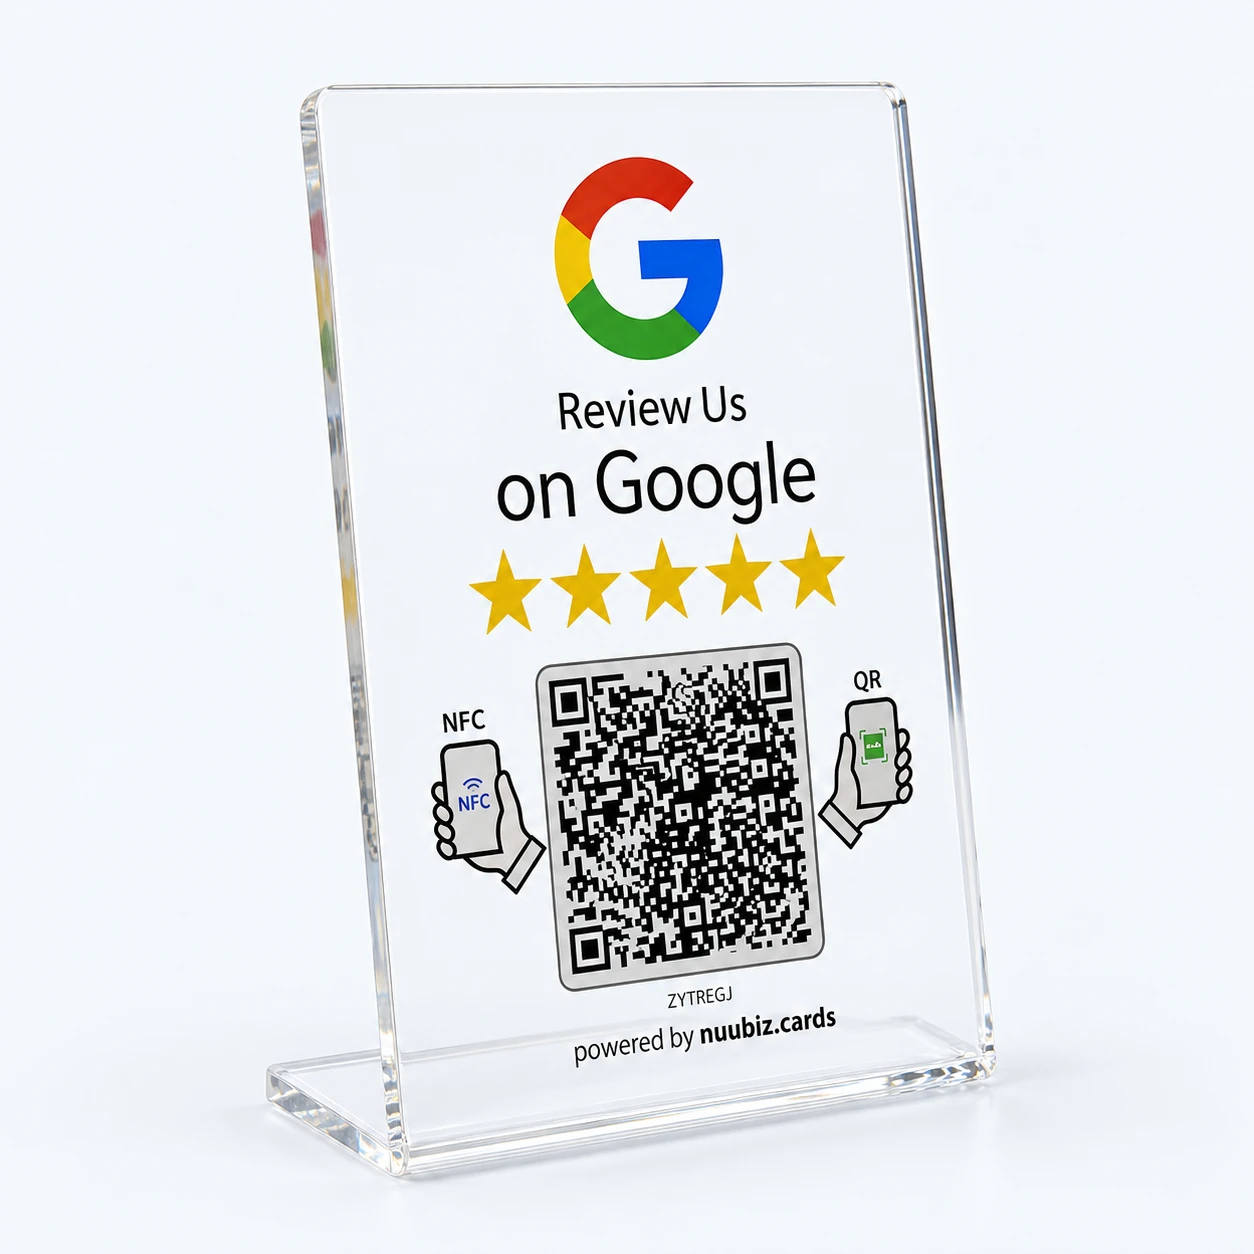
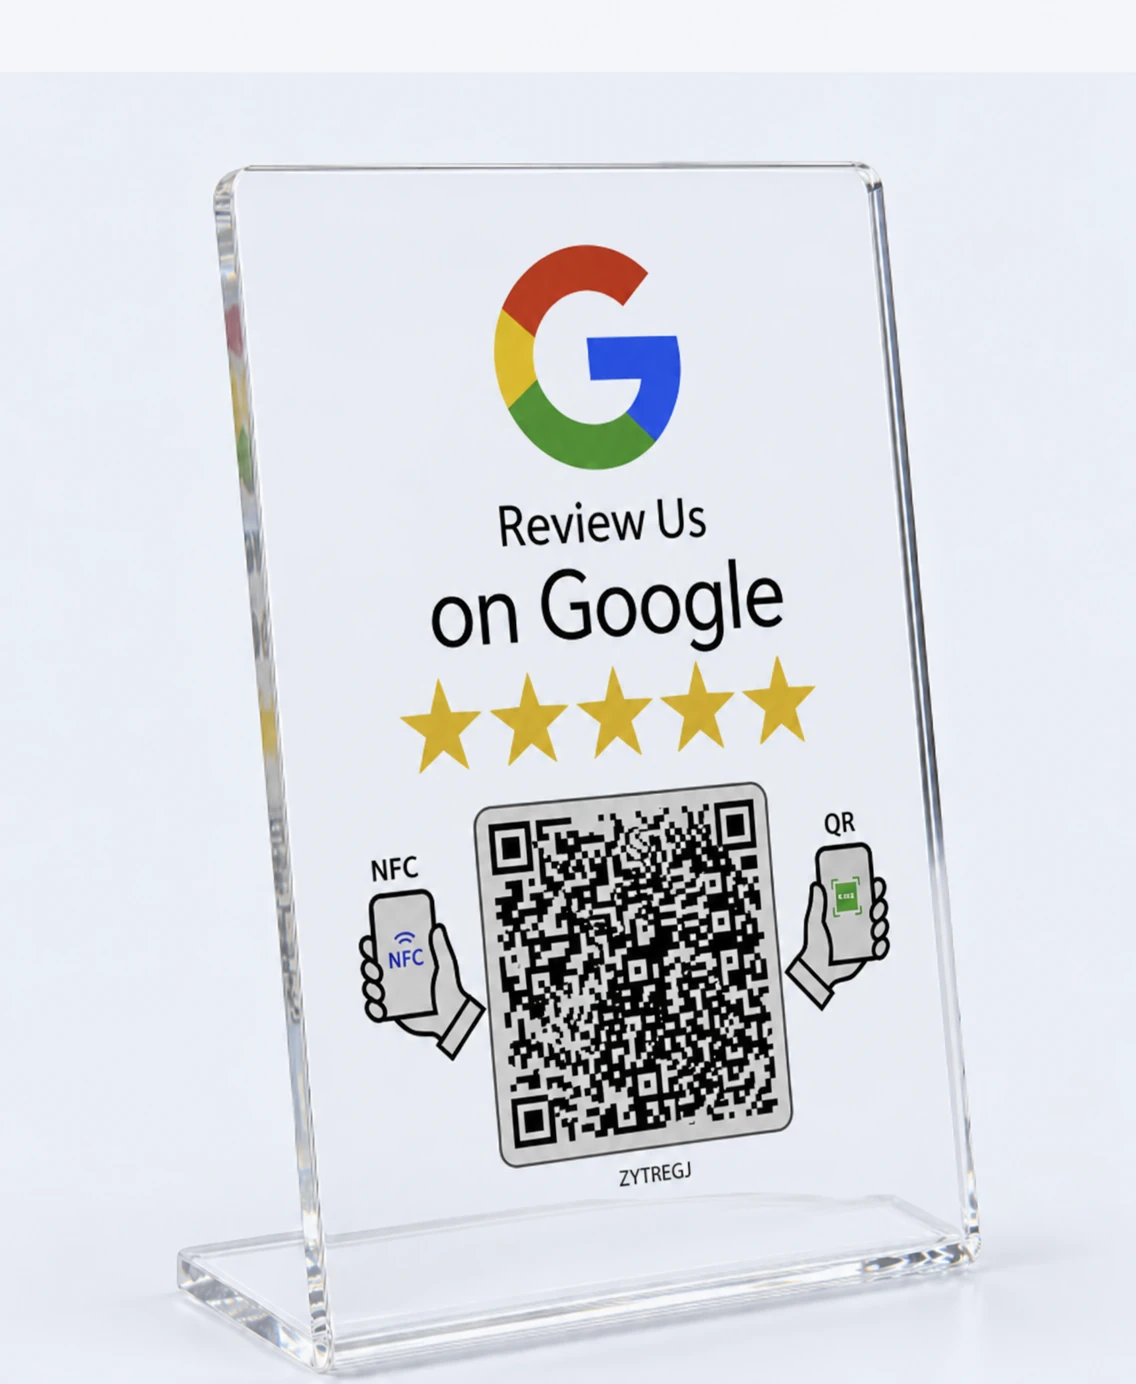
Replace badge and acrylic stand photos with supplier-credit-free versions

Changed region(s): [[0.154, 0.0622, 0.8627, 1.0]]

diff --git a/index.html b/index.html
@@ -1,6 +1,6 @@
 <!doctype html>
 <html lang="en"><head>
-<meta charset="utf-8"><meta name="viewport" content="width=device-width,initial-scale=1"><title>Tap In — Turn great service into your next great review</title><meta name="description" content="Make the next connection effortless. Explore Tap In NFC review cards, counter displays, badges and social cards for your small business."><meta name="theme-color" content="#f9fafc"><meta property="og:title" content="Tap In — A little tap. A bigger presence."><meta property="og:description" content="Connecting great service to 5-star reviews. NFC cards for Google reviews, social profiles, menus and more."><link rel="icon" type="image/png" href="assets/logo.png"><link rel="stylesheet" href="styles.css"><link rel="preload" href="assets/google-card.webp" as="image"><script src="script.js" defer></script>
+<meta charset="utf-8"><meta name="viewport" content="width=device-width,initial-scale=1"><title>Tap In — Turn great service into your next great review</title><meta name="description" content="Make the next connection effortless. Explore Tap In NFC review cards, counter displays, badges and social cards for your small business."><meta name="theme-color" content="#f9fafc"><meta property="og:title" content="Tap In — A little tap. A bigger presence."><meta property="og:description" content="Connecting great service to 5-star reviews. NFC cards for Google reviews, social profiles, menus and more."><link rel="icon" type="image/png" href="assets/logo.png"><link rel="stylesheet" href="styles.css"><link rel="preload" href="assets/google-card.webp" as="image"><script src="script.js?v=clean-credits-1" defer></script>
 </head><body>
 <a class="skip-link" href="#main">Skip to content</a><div class="scroll-progress" aria-hidden="true"></div><div class="announcement">Your next great connection is closer than you think.</div>
 <header class="site-header"><a class="brand" href="#top" aria-label="Tap In home"><img src="assets/logo.png" alt="" width="43" height="45"><span>tap in<span class="blue">.</span></span></a><nav aria-label="Main navigation" id="main-nav"><a href="#collection">The collection</a><a href="#experience">Try a tap</a><a href="#why">Why it matters</a><a href="#questions">FAQs</a></nav><a class="button button-small" href="#collection">Find your Tap In</a><button class="menu-button" aria-label="Open navigation" aria-expanded="false" aria-controls="main-nav"><span></span><span></span></button></header>
@@ -10,9 +10,9 @@
 <section class="manifesto section wrap" id="why"><div class="section-index reveal">01 — MAKE EVERY MOMENT COUNT</div><h2 class="manifesto-title reveal">The service gets remembered.<br><span>Make sure your business does, too.</span></h2><div class="value-row"><article class="value reveal"><span class="value-number">01</span><h3>Less searching.<br>More sharing.</h3><p>Take customers straight to your review page while the experience is fresh. No business names to type. No page to hunt down.</p></article><article class="value reveal"><span class="value-number">02</span><h3>Small business.<br>Stronger presence.</h3><p>Give new customers real reasons to choose you. Genuine reviews make the care you put into every visit visible online.</p></article><article class="value reveal"><span class="value-number">03</span><h3>A better habit.<br>Every day.</h3><p>Make inviting feedback a natural part of checkout, a finished appointment, or a job well done. A simple tool your whole team can use.</p></article></div></section>
 <section class="collection section" id="collection"><div class="wrap"><div class="section-top reveal"><div><p class="eyebrow">THE TAP IN COLLECTION</p><h2>Find your kind<br>of connection.</h2></div><p>On your counter. With your team.<br>Right where the good moments happen.</p></div><div class="collection-tools"><div class="filters" role="group" aria-label="Filter products"><button class="filter active" data-filter="all" aria-pressed="true">All products <span>6</span></button><button class="filter" data-filter="reviews" aria-pressed="false">Google reviews</button><button class="filter" data-filter="social" aria-pressed="false">Social & menus</button></div><span class="collection-count" aria-live="polite">6 ways to Tap In</span></div><div class="product-grid">
 <article class="product" data-category="reviews"><button class="product-visual" data-product="google-card" aria-label="Explore Google Review Card"><span class="product-tag">THE EVERYDAY ESSENTIAL</span><img src="assets/google-card.webp" alt="Blue and white Google review NFC card" width="1254" height="1254" loading="lazy"><span class="product-plus" aria-hidden="true">+</span></button><div class="product-meta"><div><p>GOOGLE REVIEWS · NFC</p><h3><button data-product="google-card">Google Review Card</button></h3></div><span class="product-index">01</span></div><p class="product-description">A small invitation to share a great experience.</p></article>
-<article class="product" data-category="reviews"><button class="product-visual" data-product="acrylic-stand" aria-label="Explore Clear Counter Display"><span class="product-tag">MADE FOR YOUR FRONT DESK</span><img src="assets/acrylic-stand.webp" alt="Clear acrylic Google review counter display with NFC and QR code" width="1254" height="1254" loading="lazy"><span class="product-plus" aria-hidden="true">+</span></button><div class="product-meta"><div><p>GOOGLE REVIEWS · NFC + QR</p><h3><button data-product="acrylic-stand">Clear Counter Display</button></h3></div><span class="product-index">02</span></div><p class="product-description">Let your counter start the conversation.</p></article>
+<article class="product" data-category="reviews"><button class="product-visual" data-product="acrylic-stand" aria-label="Explore Clear Counter Display"><span class="product-tag">MADE FOR YOUR FRONT DESK</span><img src="assets/acrylic-stand.webp?v=clean-credits-1" alt="Clear acrylic Google review counter display with NFC and QR code" width="1254" height="1254" loading="lazy"><span class="product-plus" aria-hidden="true">+</span></button><div class="product-meta"><div><p>GOOGLE REVIEWS · NFC + QR</p><h3><button data-product="acrylic-stand">Clear Counter Display</button></h3></div><span class="product-index">02</span></div><p class="product-description">Let your counter start the conversation.</p></article>
 <article class="product" data-category="reviews"><button class="product-visual" data-product="google-tent" aria-label="Explore Tabletop Review Stand"><span class="product-tag">A PLACE AT EVERY TABLE</span><img src="assets/google-tent.webp" alt="White freestanding Google review NFC tabletop sign" width="1254" height="1254" loading="lazy"><span class="product-plus" aria-hidden="true">+</span></button><div class="product-meta"><div><p>GOOGLE REVIEWS · NFC</p><h3><button data-product="google-tent">Tabletop Review Stand</button></h3></div><span class="product-index">03</span></div><p class="product-description">An easy next step after a memorable visit.</p></article>
-<article class="product" data-category="reviews"><button class="product-visual" data-product="review-badge" aria-label="Explore On-the-Go Review Badge"><span class="product-tag">GO WHERE THE SERVICE GOES</span><img src="assets/review-badge.webp" alt="Clip-on Google review badge with NFC tap and QR scan" width="1254" height="1254" loading="lazy"><span class="product-plus" aria-hidden="true">+</span></button><div class="product-meta"><div><p>GOOGLE REVIEWS · NFC + QR</p><h3><button data-product="review-badge">On-the-Go Review Badge</button></h3></div><span class="product-index">04</span></div><p class="product-description">A connection your team can take with them.</p></article>
+<article class="product" data-category="reviews"><button class="product-visual" data-product="review-badge" aria-label="Explore On-the-Go Review Badge"><span class="product-tag">GO WHERE THE SERVICE GOES</span><img src="assets/review-badge.webp?v=clean-credits-1" alt="Clip-on Google review badge with NFC tap and QR scan" width="1254" height="1254" loading="lazy"><span class="product-plus" aria-hidden="true">+</span></button><div class="product-meta"><div><p>GOOGLE REVIEWS · NFC + QR</p><h3><button data-product="review-badge">On-the-Go Review Badge</button></h3></div><span class="product-index">04</span></div><p class="product-description">A connection your team can take with them.</p></article>
 <article class="product" data-category="social"><button class="product-visual" data-product="instagram-card" aria-label="Explore Instagram Tap Card"><span class="product-tag">KEEP THE CONNECTION GOING</span><img src="assets/instagram-card.webp" alt="Magenta Instagram NFC follow card" width="1254" height="1254" loading="lazy"><span class="product-plus" aria-hidden="true">+</span></button><div class="product-meta"><div><p>INSTAGRAM · NFC</p><h3><button data-product="instagram-card">Instagram Tap Card</button></h3></div><span class="product-index">05</span></div><p class="product-description">From an in-person visit to your online world.</p></article>
 <article class="product" data-category="social"><button class="product-visual" data-product="menu-card" aria-label="Explore Digital Menu Card"><span class="product-tag">YOUR MENU. ONE TAP AWAY.</span><img src="assets/menu-card.webp" alt="Black NFC tap-to-view digital menu card" width="1254" height="1254" loading="lazy"><span class="product-plus" aria-hidden="true">+</span></button><div class="product-meta"><div><p>DIGITAL MENU · NFC</p><h3><button data-product="menu-card">Digital Menu Card</button></h3></div><span class="product-index">06</span></div><p class="product-description">Get your menu into the hands of hungry guests.</p></article>
 </div><div class="custom-link-line"><p><strong>Have something else in mind?</strong> LinkedIn, Yelp profiles, bookings, your website—choose the destination that works for you.</p><button class="text-button" data-configure="custom">Plan a custom connection <span aria-hidden="true">+</span></button></div></div></section>

diff --git a/script.js b/script.js
@@ -16,7 +16,7 @@ function productDetails(key, trigger) {
  const p = products[key]; if (!p) return; selectedProduct=key;
  $('#dialog-title').textContent=p.name; $('#dialog-category').textContent=p.category;
  $('#dialog-description').textContent=p.description; $('#dialog-best').textContent=p.best;
- $('#dialog-image').src=`assets/${key}.webp`; $('#dialog-image').alt=p.name;
+ $('#dialog-image').src=`assets/${key}.webp${['review-badge','acrylic-stand'].includes(key)?'?v=clean-credits-1':''}`; $('#dialog-image').alt=p.name;
  $('#dialog-features').replaceChildren(...p.features.map(feature=>{const li=document.createElement('li');li.textContent=feature;return li;}));
  showDialog($('#product-dialog'),trigger);
 }
